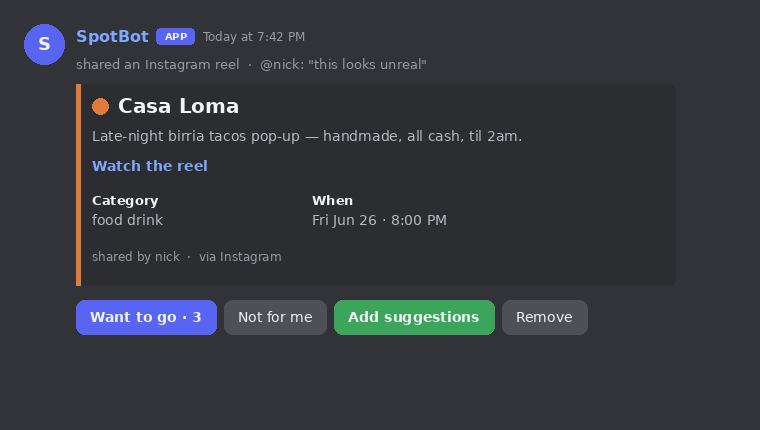
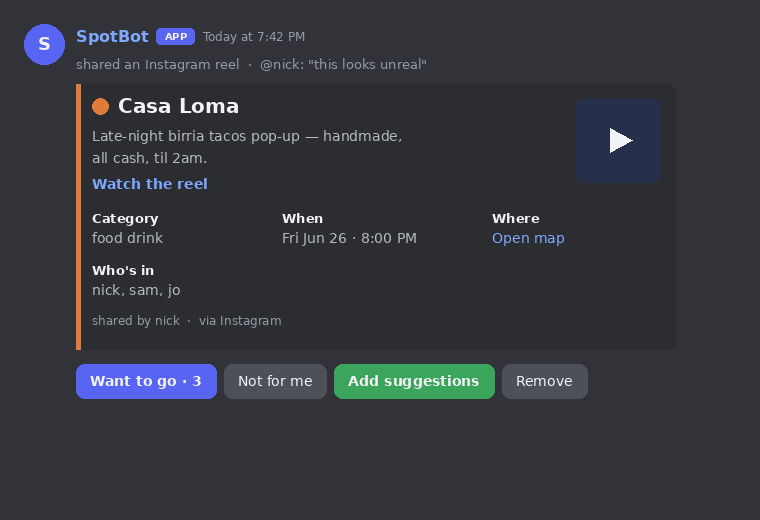
feat(serving): public share page + refreshed docs/mockups
/share on the admin app: a read-only catalog page (thumbnails, votes +
voter names, OSM map links, schedule) with a "Powered by SpotBot"
install call-to-action — the growth surface from roadmap 2.3. Guild
selection via ?guild_id=; no add/vote/remove controls.

Refresh the spot-card mockup (thumbnail, Where/Open map, Who's in) and
update the README: quorum → Scheduled Events, per-server catalogs,
share page, and the new env vars (SPOT_QUORUM, BOT_TZ, IG_*); roadmap
section now tracks the shipped first-slice items.

Claude-Session: https://claude.ai/code/session_01HbgE3xTnBK4axrEv9L4DJG

diff --git a/src/ingestion/serving/admin.py b/src/ingestion/serving/admin.py
@@ -228,6 +228,17 @@ def index():
     return _PAGE
 
 
+@app.get("/share", response_class=HTMLResponse)
+def share():
+    """Read-only catalog page — safe to send to people outside the server.
+
+    The growth surface (docs/PRODUCT_ROADMAP.md 2.3): viewable without the bot
+    installed, no add/vote/remove controls, with an install call-to-action.
+    Guild selection via ?guild_id=… (default: the single-tenant catalog).
+    """
+    return _SHARE_PAGE
+
+
 # ── UI ───────────────────────────────────────────────────────────────────────
 
 _PAGE = """<!doctype html>
@@ -310,6 +321,67 @@ async function addUrls(){
 }
 async function vote(id,delta){await fetch('/api/events/'+id+'/vote',{method:'POST',headers:{'Content-Type':'application/json'},body:JSON.stringify({delta})});load();}
 async function del(id){if(!confirm('Remove this event?'))return;await fetch('/api/events/'+id,{method:'DELETE'});load();}
+load();
+</script>
+</body></html>"""
+
+
+_SHARE_PAGE = """<!doctype html>
+<html lang="en"><head><meta charset="utf-8"/>
+<meta name="viewport" content="width=device-width, initial-scale=1"/>
+<title>SpotBot — our spots</title>
+<style>
+  :root{--bg:#0f1117;--card:#1a1d27;--line:#2a2e3a;--txt:#e7e9ee;--mut:#9aa0ad;--acc:#6ea8fe;--ok:#3fb950}
+  *{box-sizing:border-box} body{margin:0;background:var(--bg);color:var(--txt);font:15px/1.5 system-ui,Segoe UI,sans-serif}
+  header{padding:20px 24px;border-bottom:1px solid var(--line)}
+  h1{margin:0;font-size:20px} .sub{color:var(--mut);font-size:13px;margin-top:4px}
+  main{max-width:860px;margin:0 auto;padding:24px}
+  .count{color:var(--mut);font-size:13px;margin:0 0 12px}
+  .ev{display:flex;gap:14px;align-items:flex-start;background:var(--card);border:1px solid var(--line);border-radius:10px;padding:14px;margin-bottom:10px}
+  .thumb{width:72px;height:72px;border-radius:8px;object-fit:cover;background:#26304a;flex:none}
+  .votes{min-width:56px;text-align:center;color:var(--ok);font-weight:700;font-size:16px;align-self:center}
+  .votes span{display:block;color:var(--mut);font-weight:400;font-size:11px}
+  .meta{flex:1;min-width:0}
+  .venue{font-weight:700;font-size:16px}
+  .badge{display:inline-block;background:#26304a;color:var(--acc);border-radius:999px;padding:1px 9px;font-size:11px;margin-left:8px;vertical-align:middle}
+  .theme{color:var(--mut);font-size:13px;margin:4px 0;overflow:hidden;text-overflow:ellipsis}
+  .row{font-size:12px;color:var(--mut)} .row a{color:var(--acc);text-decoration:none}
+  .empty{color:var(--mut);text-align:center;padding:40px}
+  footer{max-width:860px;margin:0 auto;padding:8px 24px 32px;color:var(--mut);font-size:13px}
+  footer a{color:var(--acc);text-decoration:none;font-weight:600}
+</style></head><body>
+<header><h1>📍 Our spots</h1>
+<div class="sub">A group catalog of places we want to go — captured from shared reels.</div></header>
+<main>
+  <div class="count" id="count"></div>
+  <div id="list"></div>
+</main>
+<footer>Powered by <a href="https://github.com/NickNojiri/SocialAgent-Team10" target="_blank">SpotBot</a>
+— paste a reel in Discord, get a votable spot. Add it to your server.</footer>
+<script>
+const EMOJI={food_drink:"🍽",cafe_dessert:"🍰",nightlife:"🍸",live_music:"🎶",market_popup:"🛍",outdoors:"🏞",community:"🤝",other:"📍"};
+const GUILD=new URLSearchParams(location.search).get('guild_id')||'';
+function esc(s){return (s||'').replace(/[&<>"]/g,c=>({'&':'&amp;','<':'&lt;','>':'&gt;','"':'&quot;'}[c]));}
+async function load(){
+  const r=await fetch('/api/events?guild_id='+encodeURIComponent(GUILD)); const d=await r.json();
+  document.getElementById('count').textContent=d.count+' spot'+(d.count===1?'':'s');
+  const list=document.getElementById('list');
+  if(!d.events.length){list.innerHTML='<div class="empty">Nothing here yet.</div>';return;}
+  list.innerHTML=d.events.map(e=>`
+    <div class="ev">
+      ${e.image?`<img class="thumb" src="${esc(e.image)}" alt=""/>`:''}
+      <div class="meta">
+        <div><span class="venue">${esc(e.venue)}</span><span class="badge">${EMOJI[e.category]||'📍'} ${esc((e.category||'other').replace(/_/g,' '))}</span></div>
+        <div class="theme">${esc(e.theme||'')}</div>
+        <div class="row">
+          ${e.schedule==='scheduled'&&e.start_utc?('🗓 '+new Date(e.start_utc).toLocaleString()+' · '):''}
+          ${(e.lat!=null&&e.lng!=null)?`<a href="https://www.openstreetmap.org/?mlat=${e.lat}&mlon=${e.lng}#map=17/${e.lat}/${e.lng}" target="_blank">map ↗</a> · `:''}
+          ${e.source_url?`<a href="${esc(e.source_url)}" target="_blank">source ↗</a>`:''}
+        </div>
+      </div>
+      <div class="votes">👍 ${e.votes}<span>${esc((e.voters||[]).slice(0,4).join(', '))}</span></div>
+    </div>`).join('');
+}
 load();
 </script>
 </body></html>"""

diff --git a/scripts/gen_ui_mockups.py b/scripts/gen_ui_mockups.py
@@ -86,7 +86,7 @@ def field(d, x, y, label, value):
 
 # ── 1. Spot card (reel capture result) ──────────────────────────────────────
 def spot_card():
-    W, H = 760, 430
+    W, H = 760, 520
     img = Image.new("RGB", (W, H), BG)
     d = ImageDraw.Draw(img)
     avatar(d, 24, 24, BLURPLE, "S")
@@ -95,18 +95,28 @@ def spot_card():
            font=f(13), fill=MUTE, anchor="lm")
 
     def body(d, x, y):
+        # reel thumbnail (Discord places it top-right of the embed)
+        tx = x + 600 - 32 - 84
+        rrect(d, (tx, y, tx + 84, y + 84), 8, (38, 48, 74))
+        d.polygon([(tx + 34, y + 30), (tx + 34, y + 54), (tx + 56, y + 42)], fill=WHITE)
         # category dot + title
         d.ellipse((x, y, x + 16, y + 16), fill=(224, 123, 57))
         d.text((x + 26, y + 8), "Casa Loma", font=f(20, True), fill=WHITE, anchor="lm")
         y += 38
-        d.text((x, y), "Late-night birria tacos pop-up — handmade, all cash, til 2am.",
+        d.text((x, y), "Late-night birria tacos pop-up — handmade,",
                font=f(14), fill=GREY, anchor="lm")
-        y += 30
+        y += 22
+        d.text((x, y), "all cash, til 2am.", font=f(14), fill=GREY, anchor="lm")
+        y += 26
         d.text((x, y), "Watch the reel", font=f(14, True), fill=(126, 168, 254), anchor="lm")
         y += 34
         field(d, x, y, "Category", "food drink")
-        field(d, x + 220, y, "When", "Fri Jun 26 · 8:00 PM")
-        y += 56
+        field(d, x + 190, y, "When", "Fri Jun 26 · 8:00 PM")
+        d.text((x + 400, y), "Where", font=f(13, True), fill=WHITE, anchor="lm")
+        d.text((x + 400, y + 20), "Open map", font=f(14), fill=(126, 168, 254), anchor="lm")
+        y += 52
+        field(d, x, y, "Who's in", "nick, sam, jo")
+        y += 50
         d.text((x, y), "shared by nick  ·  via Instagram", font=f(12), fill=MUTE, anchor="lm")
         return y + 16
 

diff --git a/test_serving_extra.py b/test_serving_extra.py
@@ -91,6 +91,16 @@ def test_recommend_spam_guard_cooldown_and_dedup():
     assert not res.suppressed
 
 
+def test_share_page_is_served_and_read_only():
+    from src.ingestion.serving.admin import app as admin_app
+
+    resp = TestClient(admin_app).get("/share")
+    assert resp.status_code == 200
+    assert "Powered by" in resp.text                  # the install call-to-action
+    for write_marker in ("api/ingest", "vote(", "del("):
+        assert write_marker not in resp.text          # no write controls on the public page
+
+
 def test_apply_vote_identity_and_anonymous():
     from src.ingestion.serving.admin import VoteBody, _apply_vote, _voters
 

diff --git a/README.md b/README.md
@@ -37,9 +37,10 @@ No spreadsheets. No copy-paste. Paste a link, get a plan.
 
 ## What it looks like
 
-**Capture → card.** Paste a reel; SpotBot replies with a spot card. 👍 *Want to go*,
-👎 *Not for me*, ✨ *Add suggestions* (posts similar spots as their own votable cards),
-or *Remove* it.
+**Capture → card.** Paste a reel; SpotBot replies with a spot card — thumbnail, map
+link, and who's in. 👍 *Want to go*, 👎 *Not for me*, ✨ *Add suggestions* (posts
+similar spots as their own votable cards), or *Remove* it. When enough people are
+in (default 3), SpotBot offers to **lock it in as a Discord Scheduled Event**.
 
 ![Spot card](docs/images/discord_spot_card.png)
 
@@ -143,9 +144,17 @@ Slash commands fill in the rest:
 | `/here` · `/leave` · `/channels` | Enable / disable / list conversational channels. |
 | `/help` | How to save spots with the bot. |
 
-On a spot card: **Want to go** (👍) and **Not for me** (👎) vote · **Add suggestions**
-(✨) posts similar spots as their own votable cards · **Remove** deletes it (requires
-*Manage Messages* in a server).
+On a spot card: **Want to go** (👍) and **Not for me** (👎) vote — the card shows
+*who's* in, not just a count · **Add suggestions** (✨) posts similar spots as their
+own votable cards · **Remove** deletes it (requires *Manage Messages* in a server).
+At **quorum** (`SPOT_QUORUM`, default 3) the bot offers a 📅 **Lock it in** button
+that creates a Discord Scheduled Event (the spot's resolved time, or next Friday
+7pm) with the map link as its location.
+
+Every Discord server gets its **own catalog** (DM captures go to your personal
+stash), and each catalog has a read-only **share page** at
+`http://localhost:8010/share?guild_id=<id>` — safe to send to friends who don't
+have the bot yet.
 
 ---
 
@@ -162,6 +171,9 @@ All settings come from `.env` (see `.env.example`):
 | `LLM_URL` / `DB_URL` / `RECOMMEND_URL` | internal `:8001` / `:8002` / `:8003` | Service URLs. |
 | `INGEST_URL` / `ADMIN_URL` | `http://host.docker.internal:8010` | Catalog/admin app. |
 | `CHROMA_PATH` | `data` | Path to the Chroma vector store. |
+| `SPOT_QUORUM` | `3` | "Want to go" votes needed before the bot offers to lock in an event. |
+| `BOT_TZ` | `America/Los_Angeles` | Timezone for the default event time (next Friday 7pm). |
+| `IG_USERNAME` / `IG_PASSWORD` | unset | Optional burner account for the authed IG fetch path (`pip install instagrapi`). |
 | `BOT_INSECURE_SSL` | unset | Set to `1` to skip TLS verification on intercepting proxies. |
 
 Services and ports: **bot** (Discord) · **llm** `:8001` · **db** `:8002` ·
@@ -221,13 +233,17 @@ SocialAgent-Team10/
 
 The full product plan — hosted bot + OSS core, Discord UX phases, capture sources,
 web companion, and the growth playbook — lives in
-**[docs/PRODUCT_ROADMAP.md](docs/PRODUCT_ROADMAP.md)**. Near-term highlights:
+**[docs/PRODUCT_ROADMAP.md](docs/PRODUCT_ROADMAP.md)**.
 
-- **Capture reliability → 95–99%** via authenticated IG ingestion — see
+Shipped from the first slice: ✅ spot card v2 (thumbnails + map links) ·
+✅ per-server catalogs (multi-tenant foundation) · ✅ who's-in votes + quorum →
+Discord Scheduled Events · ✅ read-only share page (`/share`) · ✅ authed IG
+source (offline foundation). Next up:
+
+- **Measure capture reliability live** with a burner account — see
   [docs/IG_AUTH_INGESTION_PLAN.md](docs/IG_AUTH_INGESTION_PLAN.md).
-- **Spot card v2** — reel thumbnails and map links on cards.
-- **`/plan` v2** — vote quorum → auto-created Discord Scheduled Event.
-- **Shareable web catalog** — a public map/list page per server.
+- **TikTok / YouTube Shorts capture** and the job queue for hosted scale.
+- **`/setup` wizard**, weekly digests, and the map view on the share page.
 
 ---
 
